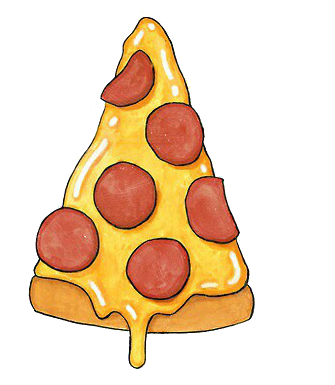
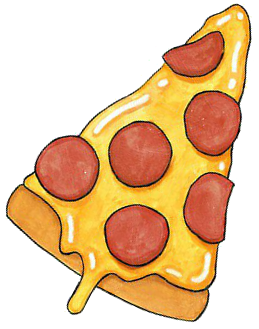
Add pizza collection

diff --git a/lib/game.js b/lib/game.js
@@ -1,5 +1,6 @@
 import Player from './player';
 import PizzaBox from './pizza_box';
+import Pizza from './pizza';
 import Projectile from './projectile';
 
 class Game {
@@ -16,13 +17,11 @@ class Game {
       this.players.push(object);
     } else if (object instanceof PizzaBox) {
       this.pizzaBoxes.push(object);
-      // console.log(this.pizzaBoxes);
     } else if (object instanceof Projectile) {
       this.projectiles.push(object);
+    } else if (object instanceof Pizza) {
+      this.pizzas.push(object);
     }
-    // else if (object instanceof Pizza) {
-    //   this.players.push(object);
-    // }
     // else if (object instanceof Platform) {
     //   this.players.push(object);
     // }
@@ -35,10 +34,10 @@ class Game {
       this.pizzaBoxes.splice(this.pizzaBoxes.indexOf(object), 1);
     } else if (object instanceof Projectile) {
       this.projectiles.splice(this.projectiles.indexOf(object), 1);
+    } else if (object instanceof Pizza) {
+      this.pizzas.splice(this.pizzas.indexOf(object), 1);
     }
     // else if (object instanceof PizzaBox) {
-    //   this.pizzaBoxes.splice(this.pizzaBoxes.indexOf(object), 1);
-    // } else if (object instanceof PizzaBox) {
     //   this.pizzaBoxes.splice(this.pizzaBoxes.indexOf(object), 1);
     //
   }
@@ -53,18 +52,18 @@ class Game {
     const playerOptions = {
       image: playerImage,
       sX: 0,
-      sY: 110,
+      sY: 115,
       sWidth: 350 / 5,
-      sHeight: 95,
+      sHeight: 85,
       dX: Game.DIM_X / 2,
       dY: Game.DIM_Y - 100,
       dWidth: 350 / 5,
-      dHeight: 95,
+      dHeight: 85,
       movement: {
         x: 0,
-        y: 110,
+        y: 115,
         width: 350,
-        height: 95,
+        height: 85,
         numberOfFrames: 5,
       },
       game: this,
@@ -77,17 +76,17 @@ class Game {
   }
 
   addPizzaBox() {
-    const startX = 50 + Math.floor((Math.random() * Game.DIM_X) - 50);
-    const fallSpeed = Math.random() + 1;
+    const startX = 50 + Math.floor(Math.random() * (Game.DIM_X - 100));
+    const fallSpeed = Math.random() + 2;
 
     const pizzaBoxOptions = {
       sX: 0,
       sY: 0,
-      sWidth: 5000,
+      sWidth: 4000,
       sHeight: 2845,
       dX: startX,
       dY: 0,
-      dWidth: 5000 * .0125,
+      dWidth: 4000 * .0125,
       dHeight: 2845 * .0125,
       fallSpeed: fallSpeed,
       game: this,
@@ -99,27 +98,60 @@ class Game {
     return pizzaBox;
   }
 
-  addPizza() {
+  addPizza(dX, dY, fallSpeed) {
+    const pizzaOptions = {
+      sX: 0,
+      sY: 0,
+      sWidth: 259,
+      sHeight: 329,
+      dX: dX + 5,
+      dY: dY + 5,
+      dWidth: 259 * .1,
+      dHeight: 329 * .1,
+      fallSpeed: fallSpeed,
+      game: this,
+    };
 
+    const pizza = new Pizza(pizzaOptions);
+    this.add(pizza);
+
+    return pizza;
   }
 
   // addProjectile() {
   //
   // }
 
-  checkCollisions() {
+  checkPizzaBoxHits() {
     for (let i = 0; i < this.projectiles.length; i++) {
       for (let j = 0; j < this.pizzaBoxes.length; j++) {
         const projectile = this.projectiles[i];
         const pizzaBox = this.pizzaBoxes[j];
         if (projectile.isCollidedWith(pizzaBox)) {
-          console.log('hit');
-          // debugger
           pizzaBox.remove();
-
+          this.addPizza(pizzaBox.dX, pizzaBox.dY, pizzaBox.fallSpeed);
         }
       }
     }
+  }
+
+  checkPlayerCollision() {
+    const player = this.players[0];
+    const fallingObjects = this.fallingObjects();
+    for (let i = 0; i < fallingObjects.length; i++) {
+      const item = fallingObjects[i];
+      if (player.isCollidedWith(item)) {
+        if (item instanceof PizzaBox) {
+          console.log('pizzabox')
+        } else if (item instanceof Pizza) {
+          item.remove();
+        }
+      }
+    }
+  }
+
+  fallingObjects() {
+  return [].concat(this.pizzaBoxes, this.pizzas);
   }
 
   allObjects() {
@@ -142,8 +174,9 @@ class Game {
   }
 
   step() {
+    this.checkPlayerCollision();
+    this.checkPizzaBoxHits();
     this.moveObjects();
-    this.checkCollisions();
   }
 
   draw(ctx) {

diff --git a/lib/player.js b/lib/player.js
@@ -25,7 +25,7 @@ class Player extends Entity {
           sY: 0,
           sWidth: 512,
           sHeight: 512,
-          dX: this.dX,
+          dX: this.dX + 20,
           dY: this.dY,
           dWidth: 25,
           dHeight: 25,
@@ -41,6 +41,17 @@ class Player extends Entity {
     }
   }
 
+  isCollidedWith(object) {
+    if (this.dY < (object.dY + object.dHeight) &&
+    ((object.dX > this.dX &&
+      object.dX < (this.dX + this.dWidth)) ||
+    ((object.dX + object.dWidth) > this.dX &&
+      (object.dX + object.dWidth) < (this.dX + this.dWidth)))) {
+      return true;
+    }
+    return false;
+  }
+
   move() {
     if (Object.values(this.moveBools).some((bool) => bool === true )) {
       this.tickCount += 1;
@@ -54,12 +65,12 @@ class Player extends Entity {
       let dir = 0;
       switch(this.direction) {
         case 'left': // left
-          if (this.dX >= 0) {
+          if (this.dX >= -20) {
             dir = -5;
           }
           break;
         case 'right': // right
-          if (this.dX <= (Game.DIM_X - this.dWidth)) {
+          if (this.dX <= (Game.DIM_X - this.dWidth + 20)) {
             dir = 5;
           }
           break;

diff --git a/lib/pizza.js b/lib/pizza.js
@@ -1,14 +1,14 @@
 import Entity from './entity';
 import Game from './game';
 
-const pizzaBoxImage = new Image();
-pizzaBoxImage.src = './assets/images/pizza_box.png';
+const pizzaImage = new Image();
+pizzaImage.src = './assets/images/pizza_2.png';
 
-class PizzaBox extends Entity {
+class Pizza extends Entity {
   constructor(options) {
     super(options);
     this.fallSpeed = options.fallSpeed;
-    this.image = pizzaBoxImage;
+    this.image = pizzaImage;
   }
 
   move() {
@@ -20,4 +20,4 @@ class PizzaBox extends Entity {
 
 }
 
-export default PizzaBox;
+export default Pizza;
